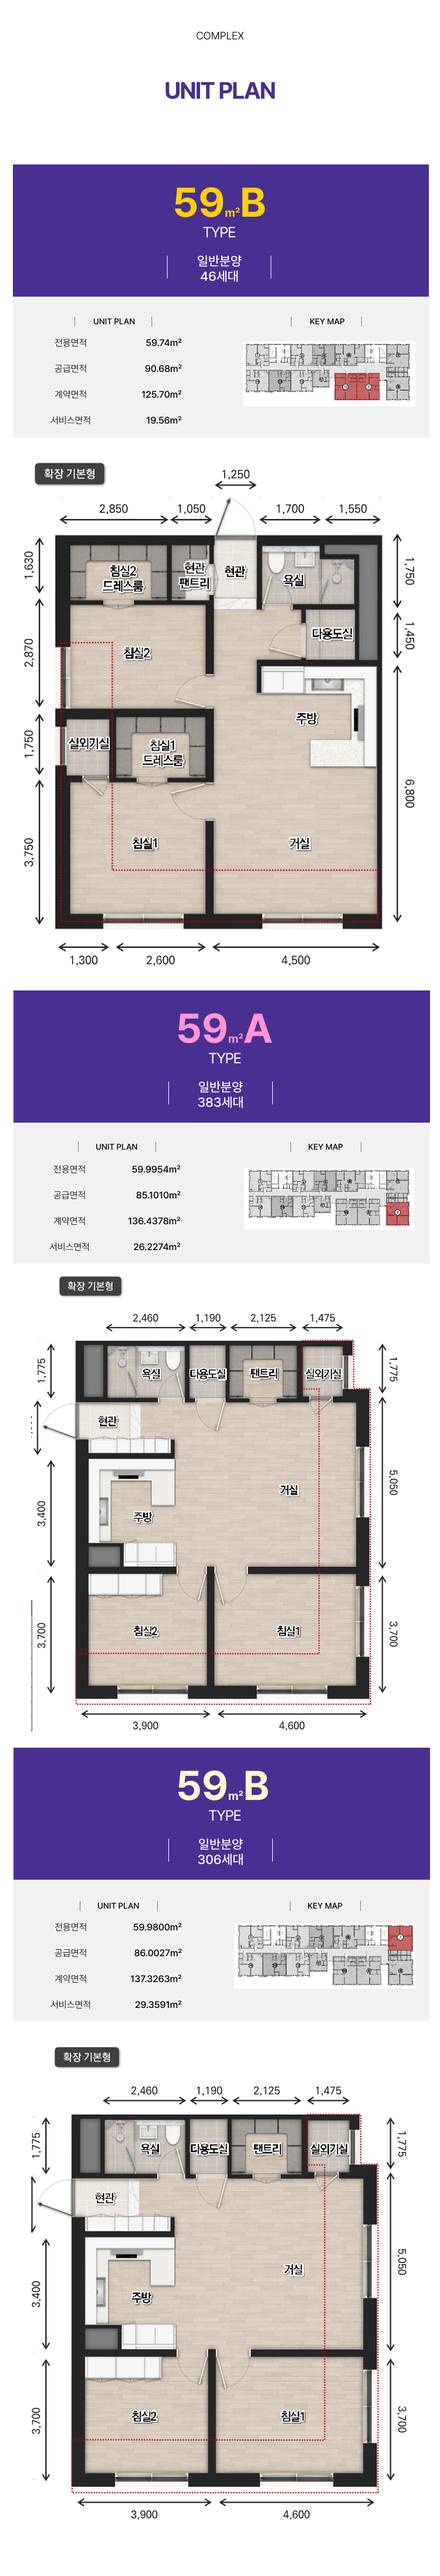
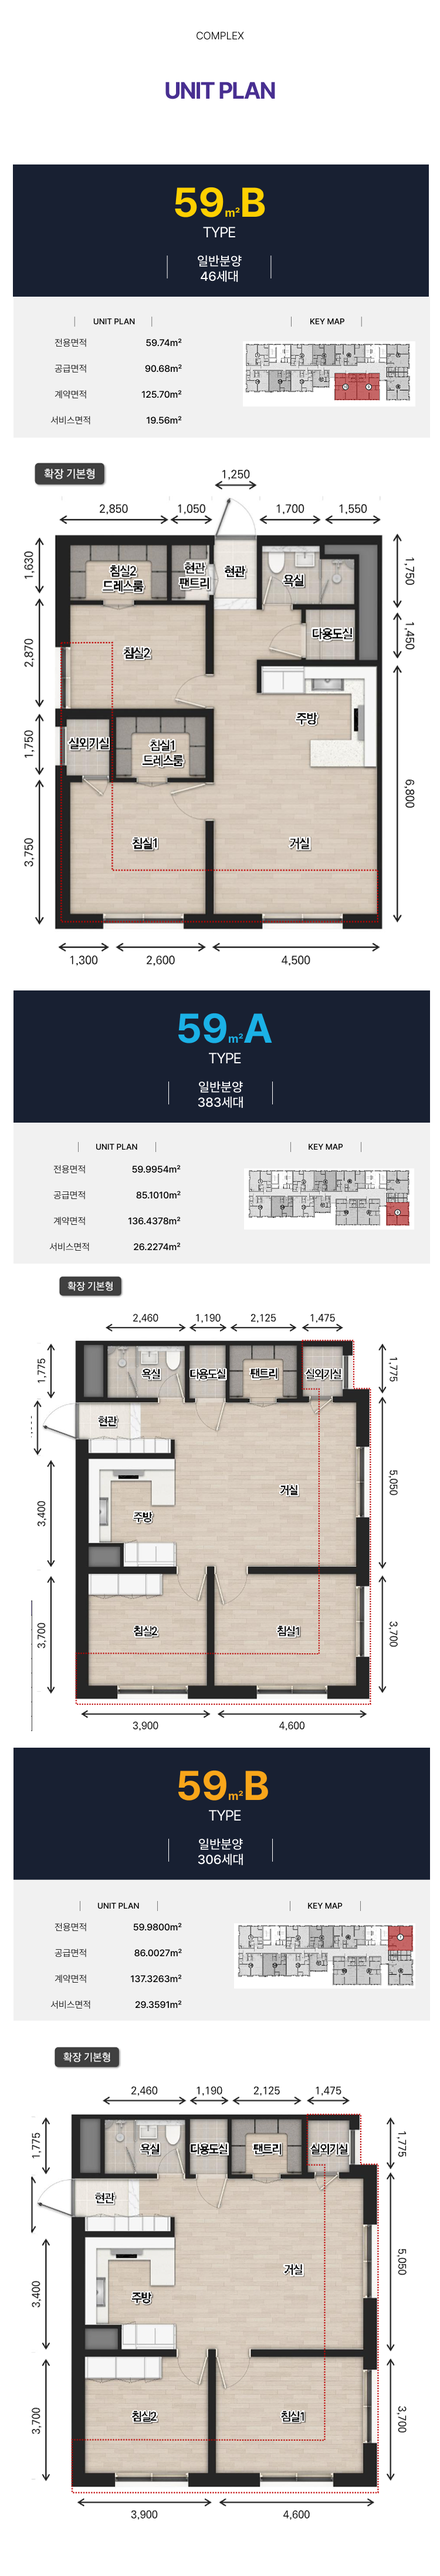
style: 해링턴플레이스 노원 센트럴 팝업 이미지 추가 및 히어로 색상 조정
- 팝업 이미지(popup.webp) 반영, popup.enabled true로 활성화
- 히어로 타이틀/서브타이틀 강조색을 보라색(#C9A6FF) 계열로 통일, eyebrow 배지 색상 정리

Changed region(s): [[0.0307, 0.6561, 0.9813, 0.7498], [0.0307, 0.3749, 0.9813, 0.4374], [0.0307, 0.0625, 0.9813, 0.125]]

diff --git a/mobile-scroll/data/sites/harrington-place-nowon-central.js b/mobile-scroll/data/sites/harrington-place-nowon-central.js
@@ -19,9 +19,9 @@ const config = {
   sheetTab:     "해링턴플레이스노원센트럴",
 
   popup: {
-    enabled: false,
+    enabled: true,
     image: {
-      src: "/apt/harrington-place-nowon-central/4.webp",
+      src: "/apt/harrington-place-nowon-central/popup.webp",
       alt: "해링턴플레이스 노원 센트럴 팝업",
     },
   },
@@ -153,8 +153,8 @@ const config = {
 
     // 히어로 배지 (eyebrow)
     eyebrow: {
-      color:       "#b39ef5",
-      borderColor: "rgba(179,158,245,0.55)",
+      color:       "rgba(255,255,255,0.9)",
+      borderColor: "rgba(255,255,255,0.4)",
       fontSize:    "1rem",
     },
     // 긴급 배지 (eyebrowUrgent)
@@ -172,13 +172,13 @@ const config = {
     title: {
       color:       "#ffffff",
       fontSize:    "clamp(1.6rem,8vw,2.7rem)",
-      accentColor: "#9d7cf0",
+      accentColor: "#C9A6FF",
     },
     // 히어로 서브타이틀
     subtitle: {
-      color:       "rgb(255, 255, 255)",
+      color:       "#ffffff",
       fontSize:    "1.15rem",
-      accentColor: "#ff6b6b",
+      accentColor: "#ffffff",
     },
 
     // 상담 신청 섹션 배경
